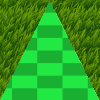
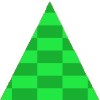
Add new game background image, remove old grass image, and update texture loading in GraphicsEngine; adjust reward for death in configuration.

diff --git a/src/graphics_engine/graphics_engine.py b/src/graphics_engine/graphics_engine.py
@@ -48,35 +48,51 @@ class GraphicsEngine:
     def _load_textures(self):
         textures = {}
         
-        def load_sprite(filename: str, full_scale: bool = False):
+        def load_sprite(filename: str, full_scale: bool = False, darken_factor: int = 255):
             path = os.path.join("../assets/images/", filename)
             try:
                 img = pygame.image.load(path).convert_alpha()
+                
+                if darken_factor < 255:
+                    dark_color = (darken_factor, darken_factor, darken_factor, 255)
+                    img.fill(dark_color, special_flags=pygame.BLEND_RGBA_MULT)
+
                 if full_scale:
                     return pygame.transform.scale(img, (self.window_size, self.window_size))
-                elif not full_scale:
-                    return pygame.transform.scale(img, (self.cell_size, self.cell_size))
                 else:
-                    return img
+                    return pygame.transform.scale(img, (self.cell_size, self.cell_size))
             except FileNotFoundError:
                 print(f"Warning: {path} not found.")
-                return None
+                sys.exit(1)
 
-        textures[Textures.EMPTY] = load_sprite("grass.jpg")
-        textures[Textures.RED_APPLE] = load_sprite("red_apple.png")
-        textures[Textures.GREEN_APPLE] = load_sprite("green_apple.png")
-        textures[Textures.WALL] = load_sprite("wall.png")
-        textures[Textures.SNAKE_HEAD_UP] = load_sprite("snake_head_tongue.png")
-        textures[Textures.SNAKE_HEAD_DOWN] = pygame.transform.rotate(textures[Textures.SNAKE_HEAD_UP], 180)
-        textures[Textures.SNAKE_HEAD_LEFT] = pygame.transform.rotate(textures[Textures.SNAKE_HEAD_UP], 90)
-        textures[Textures.SNAKE_HEAD_RIGHT] = pygame.transform.rotate(textures[Textures.SNAKE_HEAD_UP], -90)
-        textures[Textures.SNAKE_BODY] = load_sprite("snake_body.png")
         textures[Textures.LOBBY_BACKGROUND] = load_sprite("lobby_background.png", full_scale=True)
+        textures[Textures.GAME_BACKGROUND] = load_sprite("game_background.jpg", full_scale=True, darken_factor=160)
+        textures[Textures.GREEN_APPLE] = load_sprite("green_apple.png")
+        textures[Textures.SNAKE_BODY] = load_sprite("snake_body.png")
+        textures[Textures.RED_APPLE] = load_sprite("red_apple.png")
+        textures[Textures.WALL] = load_sprite("wall.png")
+
+        base_head_up = load_sprite("snake_head.png")
+        tongue_head_up = load_sprite("snake_head_tongue.png")
+        textures[Textures.SNAKE_HEAD_UP] = [base_head_up, tongue_head_up]
+        textures[Textures.SNAKE_HEAD_DOWN] = [
+            pygame.transform.rotate(base_head_up, 180),
+            pygame.transform.rotate(tongue_head_up, 180)
+        ]
+        textures[Textures.SNAKE_HEAD_LEFT] = [
+            pygame.transform.rotate(base_head_up, 90),
+            pygame.transform.rotate(tongue_head_up, 90)
+        ]
+        textures[Textures.SNAKE_HEAD_RIGHT] = [
+            pygame.transform.rotate(base_head_up, -90),
+            pygame.transform.rotate(tongue_head_up, -90)
+        ]
+
         textures[Textures.SNAKE_TAIL_UP] = load_sprite("snake_tail.png")
-        textures[Textures.SNAKE_TAIL_DOWN] = pygame.transform.rotate(textures[Textures.SNAKE_TAIL_UP], 180)
         textures[Textures.SNAKE_TAIL_LEFT] = pygame.transform.rotate(textures[Textures.SNAKE_TAIL_UP], 90)
         textures[Textures.SNAKE_TAIL_RIGHT] = pygame.transform.rotate(textures[Textures.SNAKE_TAIL_UP], -90)
-
+        textures[Textures.SNAKE_TAIL_DOWN] = pygame.transform.rotate(textures[Textures.SNAKE_TAIL_UP], 180)
+        
         return textures
 
     def refresh_textures(self):
@@ -93,7 +109,13 @@ class GraphicsEngine:
         :param tail_direction: The direction the snake's tail is facing.
         """
         self.screen.fill((0, 0, 0))
+        if self.textures.get(Textures.GAME_BACKGROUND):
+            self.screen.blit(self.textures[Textures.GAME_BACKGROUND], (0, 0))
 
+
+        current_time = pygame.time.get_ticks()
+        animation_cycle = current_time % 1000
+        frame_index = 1 if animation_cycle > 600 else 0
         for index, value in enumerate(board_array):
             row = index // GLOBAL_CONFIG.get('board_size')
             col = index % GLOBAL_CONFIG.get('board_size')
@@ -101,16 +123,17 @@ class GraphicsEngine:
             y = row * self.cell_size
 
             if value == Entity.SNAKE_HEAD:
-                texture = self.textures.get(head_direction)    
+                texture = self.textures.get(head_direction)[frame_index]
             elif value == Entity.SNAKE_TAIL:
                 texture = self.textures.get(tail_direction)
             else:
                 texture = self.textures.get(value)
             
-            if texture:
-                self.screen.blit(texture, (x, y))
-            else:
-                pygame.draw.rect(self.screen, (255, 0, 255), (x, y, self.cell_size, self.cell_size))
+            if value != Entity.EMPTY:
+                if texture:
+                    self.screen.blit(texture, (x, y))
+                else:
+                    pygame.draw.rect(self.screen, (255, 0, 255), (x, y, self.cell_size, self.cell_size))
 
         pygame.display.flip()
         self.clock.tick(GLOBAL_CONFIG.get('fps_cap'))
@@ -183,21 +206,19 @@ class GraphicsEngine:
         if self.textures.get(Textures.LOBBY_BACKGROUND):
             self.screen.blit(self.textures[Textures.LOBBY_BACKGROUND], (0, 0))
 
-        # 1. Initialize UI Text Input State dynamically if it doesn't exist
         if not hasattr(self, 'active_input'):
             self.active_input = None
             self.input_buffer = ""
             self.error_msg = ""
             self.error_time = 0
 
-        self.draw_text_aligned("ENGINE CONFIGURATION MATRIX", (0, 255, 100), self.window_size // 2, 50, align="center")
+        self.draw_text_aligned("ENGINE CONFIGURATION MATRIX", (0, 255, 100), self.window_size // 2, self.window_size // 8, align="center")
 
         col_width = 400
         btn_height = 40
         padding = 10
-        start_y = 120
+        start_y = self.window_size // 4
         
-        # Center the single column dynamically based on window size
         center_x = (self.window_size - col_width) // 2
         
         config_keys = [
@@ -209,12 +230,10 @@ class GraphicsEngine:
             ("reward_step", "Reward: Step")
         ]
 
-        # Updated custom colors
         btn_normal = (50, 50, 50, 60)
         btn_hover = (100, 100, 200, 120)
         interactive_zones = []
 
-        # 2. Render Single Centered Column
         self.draw_text_aligned("ENVIRONMENT RULES", (200, 200, 200), self.window_size // 2, start_y - 25, align="center")
         for i, (key, label) in enumerate(config_keys):
             rect = pygame.Rect(center_x, start_y + (i * (btn_height + padding)), col_width, btn_height)
@@ -224,23 +243,18 @@ class GraphicsEngine:
             self.draw_text_input_row(rect, label, display_val, is_active, btn_normal, btn_hover)
             interactive_zones.append((rect, key))
 
-        # 3. Render Error Message
         if self.error_msg and pygame.time.get_ticks() - self.error_time < 3000:
             self.draw_text_aligned(self.error_msg, (255, 50, 50), self.window_size // 2, self.window_size - 110, align="center")
 
-        # 4. Render Back Button
         back_btn_rect = pygame.Rect(self.window_size // 2 - 150, self.window_size - 80, 300, 50)
         self.draw_button(back_btn_rect, "RETURN TO LOBBY", btn_normal, btn_hover)
 
-        # 5. Event Loop (Mouse & Keyboard)
         for event in pygame.event.get():
-            if event.type == pygame.QUIT:
+            if event.type == pygame.QUIT or (event.type == pygame.KEYDOWN and event.key == pygame.K_ESCAPE):
                 pygame.quit()
                 sys.exit()
                 
-            # MOUSE INPUT
             elif event.type == pygame.MOUSEBUTTONDOWN and event.button == 1:
-                # Try to save current input if clicking away
                 if self.active_input:
                     try:
                         GLOBAL_CONFIG.update(self.active_input, self.input_buffer)
@@ -250,11 +264,9 @@ class GraphicsEngine:
                         self.error_time = pygame.time.get_ticks()
                     self.active_input = None
 
-                # Check if Return button was clicked
                 if back_btn_rect.collidepoint(event.pos):
                     return AppState.LOBBY
 
-                # Check if an input field was clicked
                 for rect, key in interactive_zones:
                     if rect.collidepoint(event.pos):
                         self.active_input = key
@@ -263,7 +275,6 @@ class GraphicsEngine:
                             self.input_buffer = ""
                         break
                         
-            # KEYBOARD INPUT
             elif event.type == pygame.KEYDOWN and self.active_input:
                 if event.key == pygame.K_RETURN:
                     try:
@@ -287,6 +298,7 @@ class GraphicsEngine:
         self.clock.tick(GLOBAL_CONFIG.get('fps_cap'))
 
         return AppState.CONFIG
+
     def draw_text_aligned(self, text, color, x, y, align="center"):
         """Utility to draw text anchored left, right, or center."""
         text_surface = self.font.render(str(text), True, color)
@@ -309,23 +321,18 @@ class GraphicsEngine:
         
         current_color = active_color if is_active else (hover_color if is_hovered else default_color)
         
-        # Transparent background
         alpha_surface = pygame.Surface((rect.width, rect.height), pygame.SRCALPHA)
         pygame.draw.rect(alpha_surface, current_color, alpha_surface.get_rect())
         self.screen.blit(alpha_surface, (rect.x, rect.y))
         
-        # Border (Highlights bright green if actively typing)
         border_color = (0, 255, 100) if is_active else (100, 100, 100)
         pygame.draw.rect(self.screen, border_color, rect, width=2 if is_active else 1)
         
-        # Draw label on the left
         self.draw_text_aligned(label, (255, 255, 255), rect.x + 15, rect.centery, align="left")
         
-        # Draw value on the right
         val_color = (255, 255, 255) if is_active else (0, 255, 100)
         text_to_draw = str(display_value)
         
-        # Add blinking cursor if active (blinks every 500ms)
         if is_active and (pygame.time.get_ticks() % 1000 < 500):
             text_to_draw += "|"
             

diff --git a/src/main.py b/src/main.py
@@ -34,7 +34,7 @@ def game_loop(gfx: GraphicsEngine, env: GymnasiumWrapper, agent: DQNAgent, curre
             action = agent.select_action(state)
         
         next_state, reward, is_dead, truncated, info, tail_direction = env.step(action)
-        print(f"Action: {action}, Reward: {reward}, is_dead: {is_dead}, Truncated: {truncated}, Info: {info}")
+        # print(f"Action: {action}, Reward: {reward}, is_dead: {is_dead}, Truncated: {truncated}, Info: {info}")
         if GLOBAL_CONFIG.get('mode') == "train":
             pass
 

diff --git a/src/app_config/config.py b/src/app_config/config.py
@@ -8,10 +8,10 @@ class Config:
     def __init__(self):
         # Environment Rules
         self.board_size = 10
-        self.fps_cap = 15          # 15 for human play, 0 for uncapped training
+        self.fps_cap = 15
         self.reward_green_apple = 1.0
         self.reward_red_apple = -0.5
-        self.reward_death = -1.0
+        self.reward_death = -2.0
         self.reward_step = -0.01
         
         # Neural Network Hyperparameters

diff --git a/src/constants.py b/src/constants.py
@@ -21,6 +21,7 @@ class Textures(IntEnum):
     GREEN_APPLE = 11
     WALL = 12
     LOBBY_BACKGROUND = 13
+    GAME_BACKGROUND = 14
 
 class Entity(IntEnum):
     EMPTY = Textures.EMPTY
